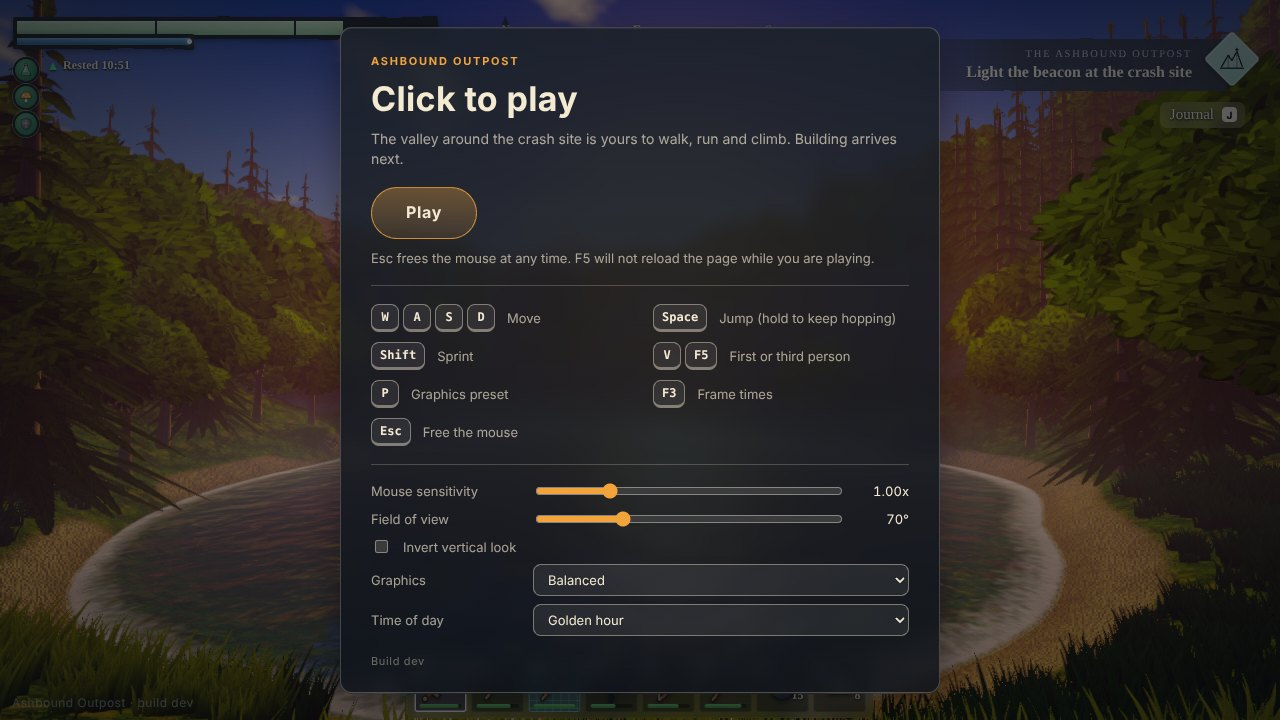
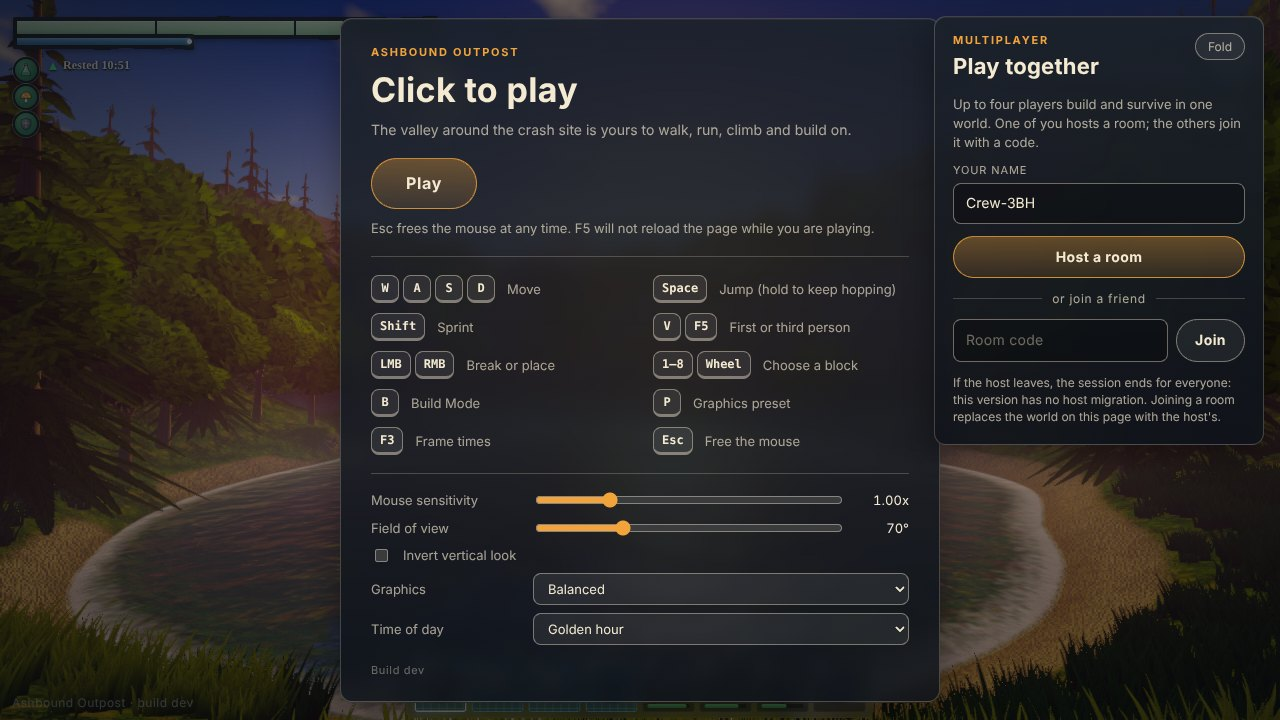
Add the Phase 2d screenshots and fit the start card at 1280 by 720
Four screenshots of building by hand (the ghost block in a gateway, the out-of-reach notice, third person and the hotbar close up) with a section in the art direction doc that says what to look at and what Build Mode costs a frame (8 more draws and 176 triangles on Balanced). The start card's controls list had grown past the window at 1280 by 720, so the mouse buttons share one row and two labels are shorter; the card's screenshot is retaken.

Claude-Session: https://claude.ai/code/session_01AMEiVsYWT9F481mT7RMuPb

diff --git a/src/ui/pause-panel.ts b/src/ui/pause-panel.ts
@@ -25,11 +25,10 @@ const CONTROLS: Control[] = [
   { keys: ['W', 'A', 'S', 'D'], label: 'Move' },
   { keys: ['Space'], label: 'Jump (hold to keep hopping)' },
   { keys: ['Shift'], label: 'Sprint' },
-  { keys: ['Right click'], label: 'Place the selected block' },
-  { keys: ['Left click'], label: 'Break a block' },
-  { keys: ['1–8', 'Wheel'], label: 'Choose a block' },
-  { keys: ['B'], label: 'Build Mode: see where a block will go' },
   { keys: ['V', 'F5'], label: 'First or third person' },
+  { keys: ['LMB', 'RMB'], label: 'Break or place' },
+  { keys: ['1–8', 'Wheel'], label: 'Choose a block' },
+  { keys: ['B'], label: 'Build Mode' },
   { keys: ['P'], label: 'Graphics preset' },
   { keys: ['F3'], label: 'Frame times' },
   { keys: ['Esc'], label: 'Free the mouse' },

diff --git a/docs/art-direction.md b/docs/art-direction.md
@@ -170,7 +170,7 @@ All three presets pass the game page's mark (at least 57 FPS on average, 95th pe
 
 ## Phase 2c: the blocks
 
-Phase 2c draws the voxel world: beveled blocks with ambient occlusion in four material tiers, and a time budget for re-meshing (how it works is in [decisions](decisions.md#phase-2c-block-meshing-and-materials)). Nothing places a block yet, so the screenshots show the demo structures that `?demo=outpost` and `?demo=swatch` raise. They are taken the same way as the look spike's: headless Chromium on software GL, 1280 by 720, Balanced, `freeze=1`.
+Phase 2c draws the voxel world: beveled blocks with ambient occlusion in four material tiers, and a time budget for re-meshing (how it works is in [decisions](decisions.md#phase-2c-block-meshing-and-materials)). Nothing placed a block yet, so the screenshots show the demo structures that `?demo=outpost` and `?demo=swatch` raise. They are taken the same way as the look spike's: headless Chromium on software GL, 1280 by 720, Balanced, `freeze=1`.
 
 ![The demo outpost from the south in the afternoon, Balanced](phase-2/blocks-outpost.jpg)
 
@@ -191,7 +191,7 @@ Counted like the table above (every pass, 1280 by 720). The outpost is four chun
 | ---------------------------------------- | ------------------- | -------------------- | --------------------- |
 | Outpost (`demo=outpost`, `shot=outpost`) | 37 draws, 200k tris | 114 draws, 879k tris | 153 draws, 1.87M tris |
 
-The other Balanced views: gate 108 draws and 768k triangles, closeup 118 and 813k, swatch 127 and 866k (nine chunks, four walls spread across the lawn). Beside the valley's own 111 draws and 855k triangles, a base this size costs a handful of draws and about 1 percent of the triangles. The sandbox has no GPU, so what a bigger base does to the frame rate is not measured yet. `/?bench=1&demo=outpost` flies the benchmark route with the outpost in view part of the way round; run it on a real machine when a heavier base exists (Phase 2d lets players build one).
+The other Balanced views: gate 108 draws and 768k triangles, closeup 118 and 813k, swatch 127 and 866k (nine chunks, four walls spread across the lawn). Beside the valley's own 111 draws and 855k triangles, a base this size costs a handful of draws and about 1 percent of the triangles. The sandbox has no GPU, so what a bigger base does to the frame rate is not measured yet. `/?bench=1&demo=outpost` flies the benchmark route with the outpost in view part of the way round; run it on a real machine once a heavier base exists (players can build one since Phase 2d).
 
 The block tiles take about 43 MB of video memory at Balanced and Ultra (16 layers of 512 by 512, albedo and data, with mipmaps) and 11 MB on Low. They are baked the first time a block is meshed, so a world with no blocks pays nothing; under software rendering the bake takes about 9 seconds at Balanced and 3 at Low, a real GPU a few milliseconds.
 
@@ -203,3 +203,23 @@ Meshing a chunk on the sandbox CPU takes 0.3 to 1.3 ms for the demo's chunks and
 - The lighting pass against references 04 and 05 is Phase 2e's. At golden hour Composite reads olive and a lit Scrap wall reads orange; whether that suits the references is what the pass decides.
 - The tiles are small sci-fi panels. Reference 04's pieces are thicker and rougher (stone courses, timber); ours show the grid more. The pass compares and adjusts.
 - A player standing in the grass sees blocks low in the frame through blades up to a meter tall (see the gate); that is the grass, not a gap in the blocks.
+
+## Phase 2d: building by hand
+
+Phase 2d lets a player place and break blocks (the rules and the reasons are in [decisions](decisions.md#phase-2d-building-by-hand)). The screenshots stand on a gate wall of the four tiers, placed through the `?debug` hook (`window.__ashbound.mp.placeNear`) so the aim repeats, with Build Mode on (B) and the cursor on the ground in the gateway. Headless Chromium on software GL, 1280 by 720, Balanced, golden hour, the HUD on.
+
+![Build Mode: the ghost block stands in the gateway, cyan because a click would work](phase-2/build-gate.jpg)
+
+![Out of reach: the ghost and the crosshair turn red and the caption says why](phase-2/build-out-of-reach.jpg)
+
+| Image                                                | What to look at                                                                                                                                                                                                                                                                     |
+| ---------------------------------------------------- | ----------------------------------------------------------------------------------------------------------------------------------------------------------------------------------------------------------------------------------------------------------------------------------- |
+| [build-gate](phase-2/build-gate.jpg)                 | The ghost is the beveled block itself, translucent with a bright rim, snapped to the grid cell a click would fill. The caption above the hotbar names the piece and its cost, slot 1 is selected, the crosshair has its cyan ring, and the status panel lists the keys of the mode. |
+| [build-out-of-reach](phase-2/build-out-of-reach.jpg) | A step back: the cursor still sees the gateway but a click would not reach it, so the ghost and the ring turn red and the caption says "Out of reach".                                                                                                                              |
+| [build-third](phase-2/build-third.jpg)               | The same from over the shoulder (V). The aim starts at the player's eyes, not at the camera, so the player's own body is never what the cursor hits.                                                                                                                                |
+| [build-hotbar](phase-2/build-hotbar.jpg)             | The hotbar close up, after reference 07: four block icons on the cyan grid of placeable items, the selected slot in a white ring, the tools after them, ALT on the left and the B Build hint on the right.                                                                          |
+| [game-pause](phase-2/game-pause.jpg)                 | The start card, retaken: the controls now list the mouse buttons, the hotbar keys and B, and the card still fits at 1280 by 720.                                                                                                                                                    |
+
+### Frame cost of Build Mode
+
+The ghost and the outline are four objects (the block, its edges, the wash over the target and its outline), and none of them casts or receives a shadow. With both shown the Balanced view costs 8 more draws (99 against 91) and 176 more triangles, because each object is drawn in two passes; with Build Mode off they are hidden and cost nothing. Counted like the tables above, on software GL: the real frame cost of eight transparent draws is not measured, but it is a very small fraction of the budget.
